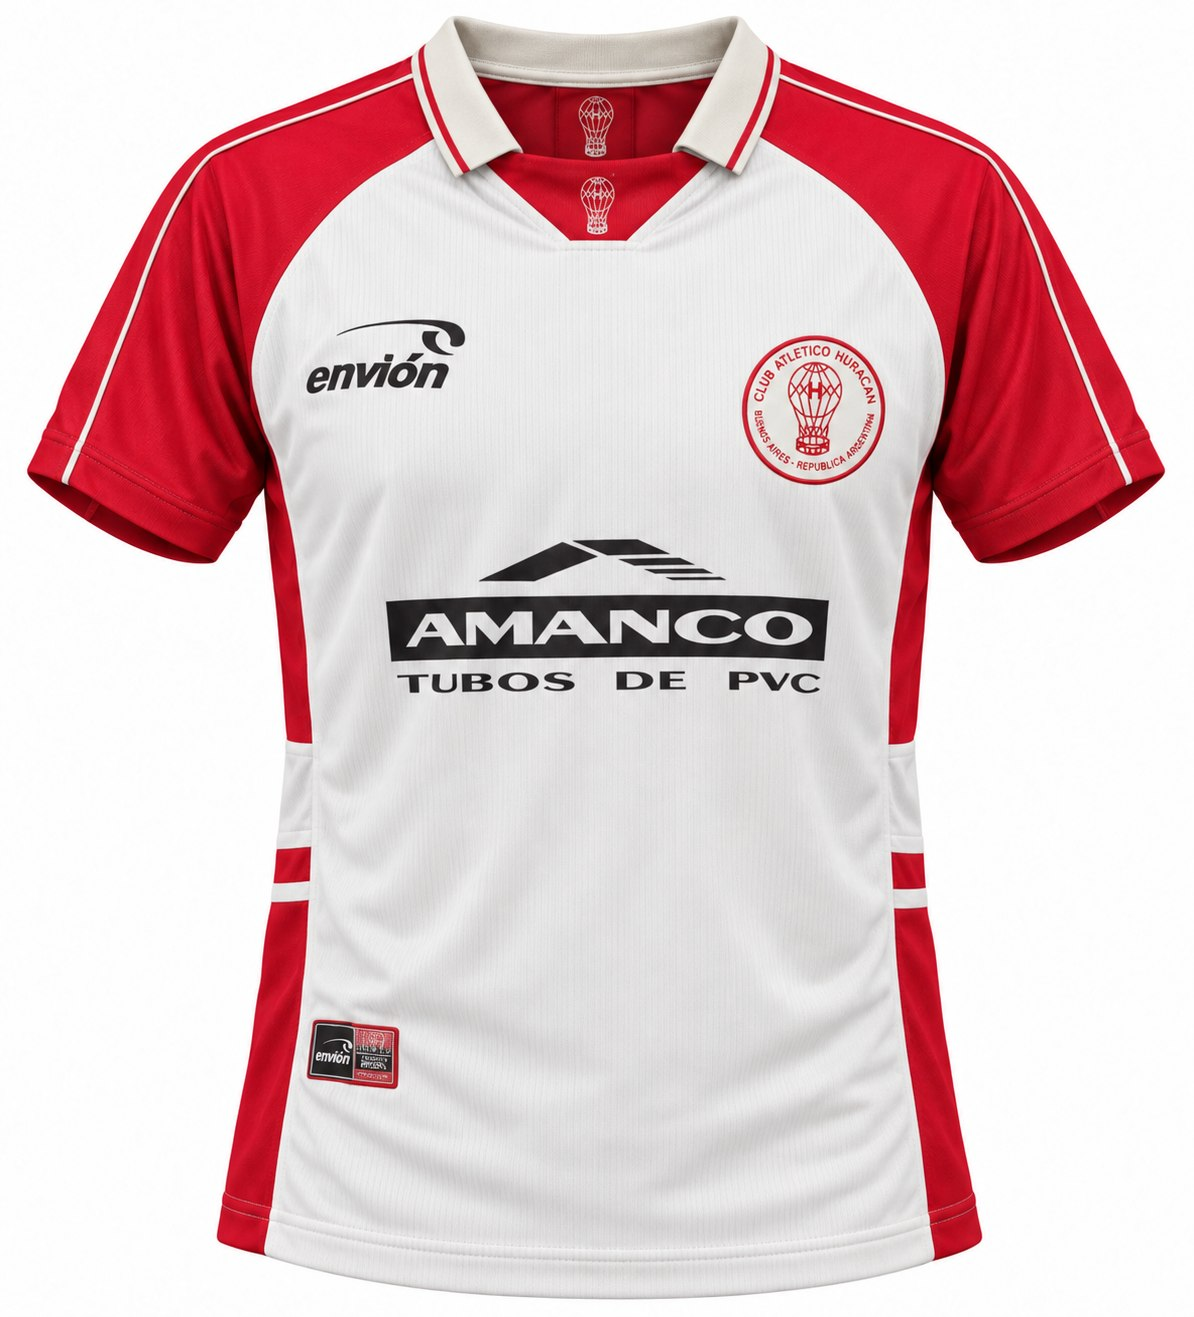
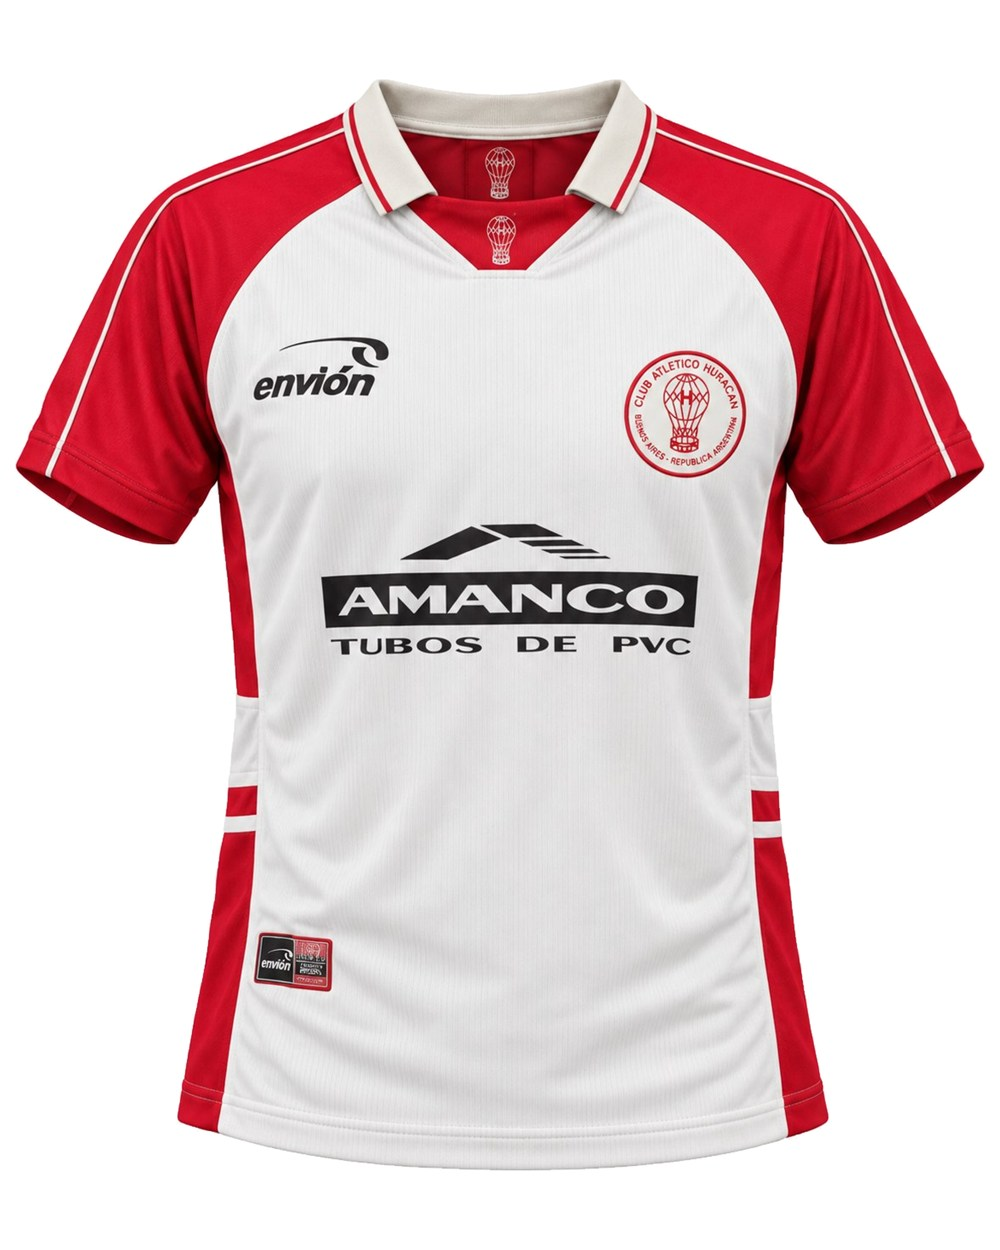
Estandarizar las 15 camisetas nuevas y renombrar el ídolo del kit creator
Las 15 fotos sumadas hoy pasan a fondo blanco, 1000x1250, con la camiseta
centrada y a la misma altura. En el kit creator dice 'Elegí un histórico
jugador de Huracán' y las flechas, 'Jugador anterior/siguiente'.

Changed region(s): [[0.0, 0.0, 0.992, 0.9984], [0.31, 0.4056, 0.713, 0.5304]]

diff --git a/js/components/dressup.js b/js/components/dressup.js
@@ -185,8 +185,8 @@ function arrowHTML(step, dir, label) {
 export function dressUpCompactHTML() {
   return `<div class="dressup dressup--compact" id="dressup-mini">
       ${stageHTML('dressup-mini')}
-      ${arrowHTML('player', -1, 'Ídolo anterior')}
-      ${arrowHTML('player', 1, 'Ídolo siguiente')}
+      ${arrowHTML('player', -1, 'Jugador anterior')}
+      ${arrowHTML('player', 1, 'Jugador siguiente')}
       ${arrowHTML('season', -1, 'Camiseta anterior')}
       ${arrowHTML('season', 1, 'Camiseta siguiente')}
     </div>`;

diff --git a/js/views/kitCreator.js b/js/views/kitCreator.js
@@ -30,7 +30,7 @@ export function renderKitCreator() {
           ${dressUpHTML()}
         </div>
         <p class="lede creator-layout__text">
-          Elegí un ídolo y probale las camisetas del archivo. Cada combinación es
+          Elegí un histórico jugador de Huracán y probale las camisetas del archivo. Cada combinación es
           una imagen generada aparte: acá sólo se revela la que pediste.
         </p>
       </div>
